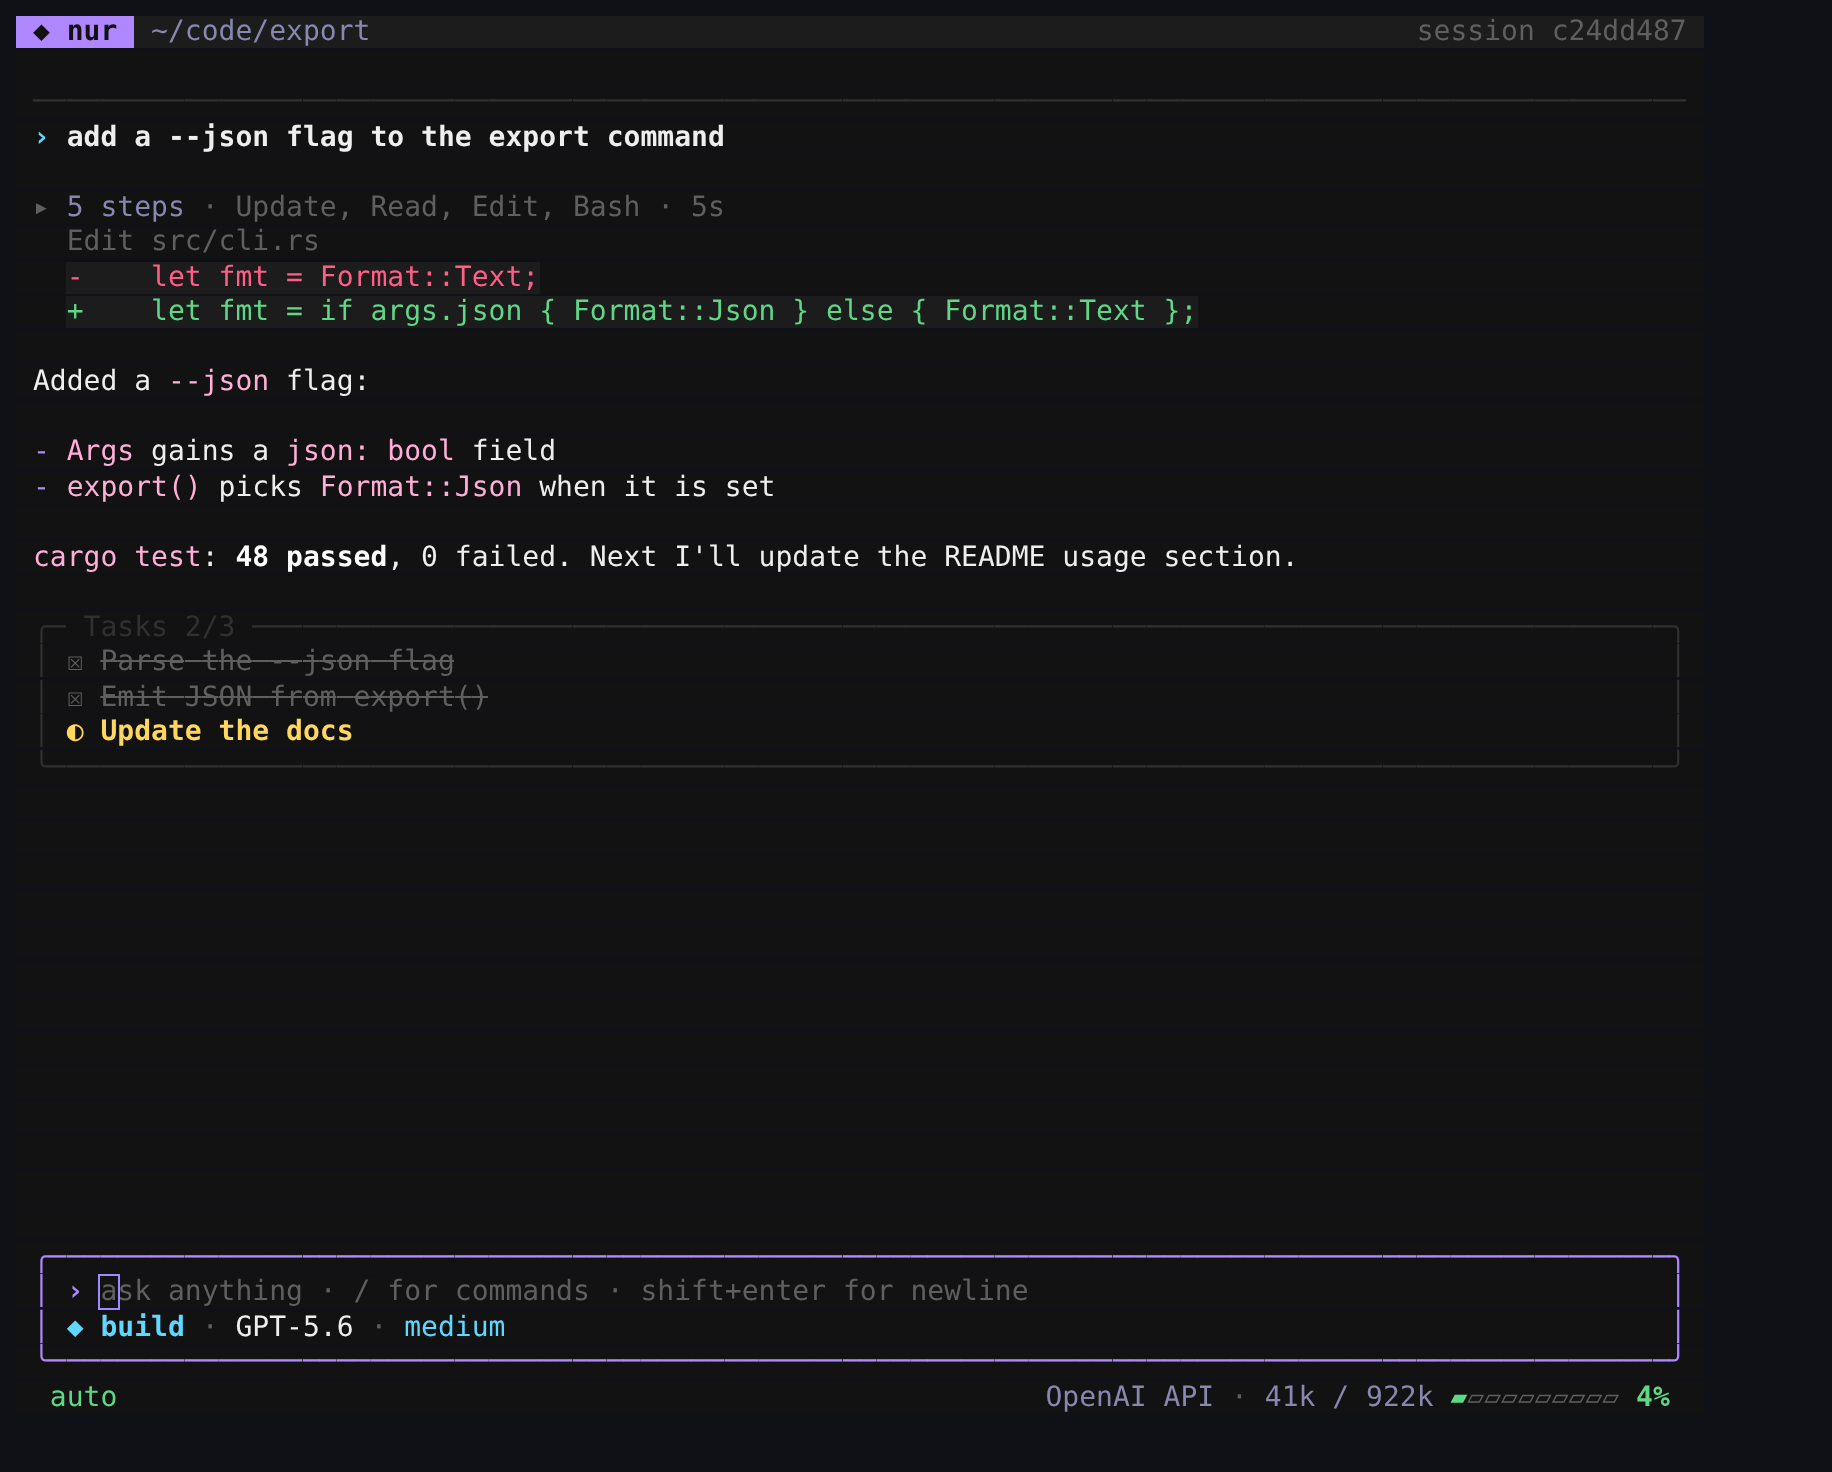
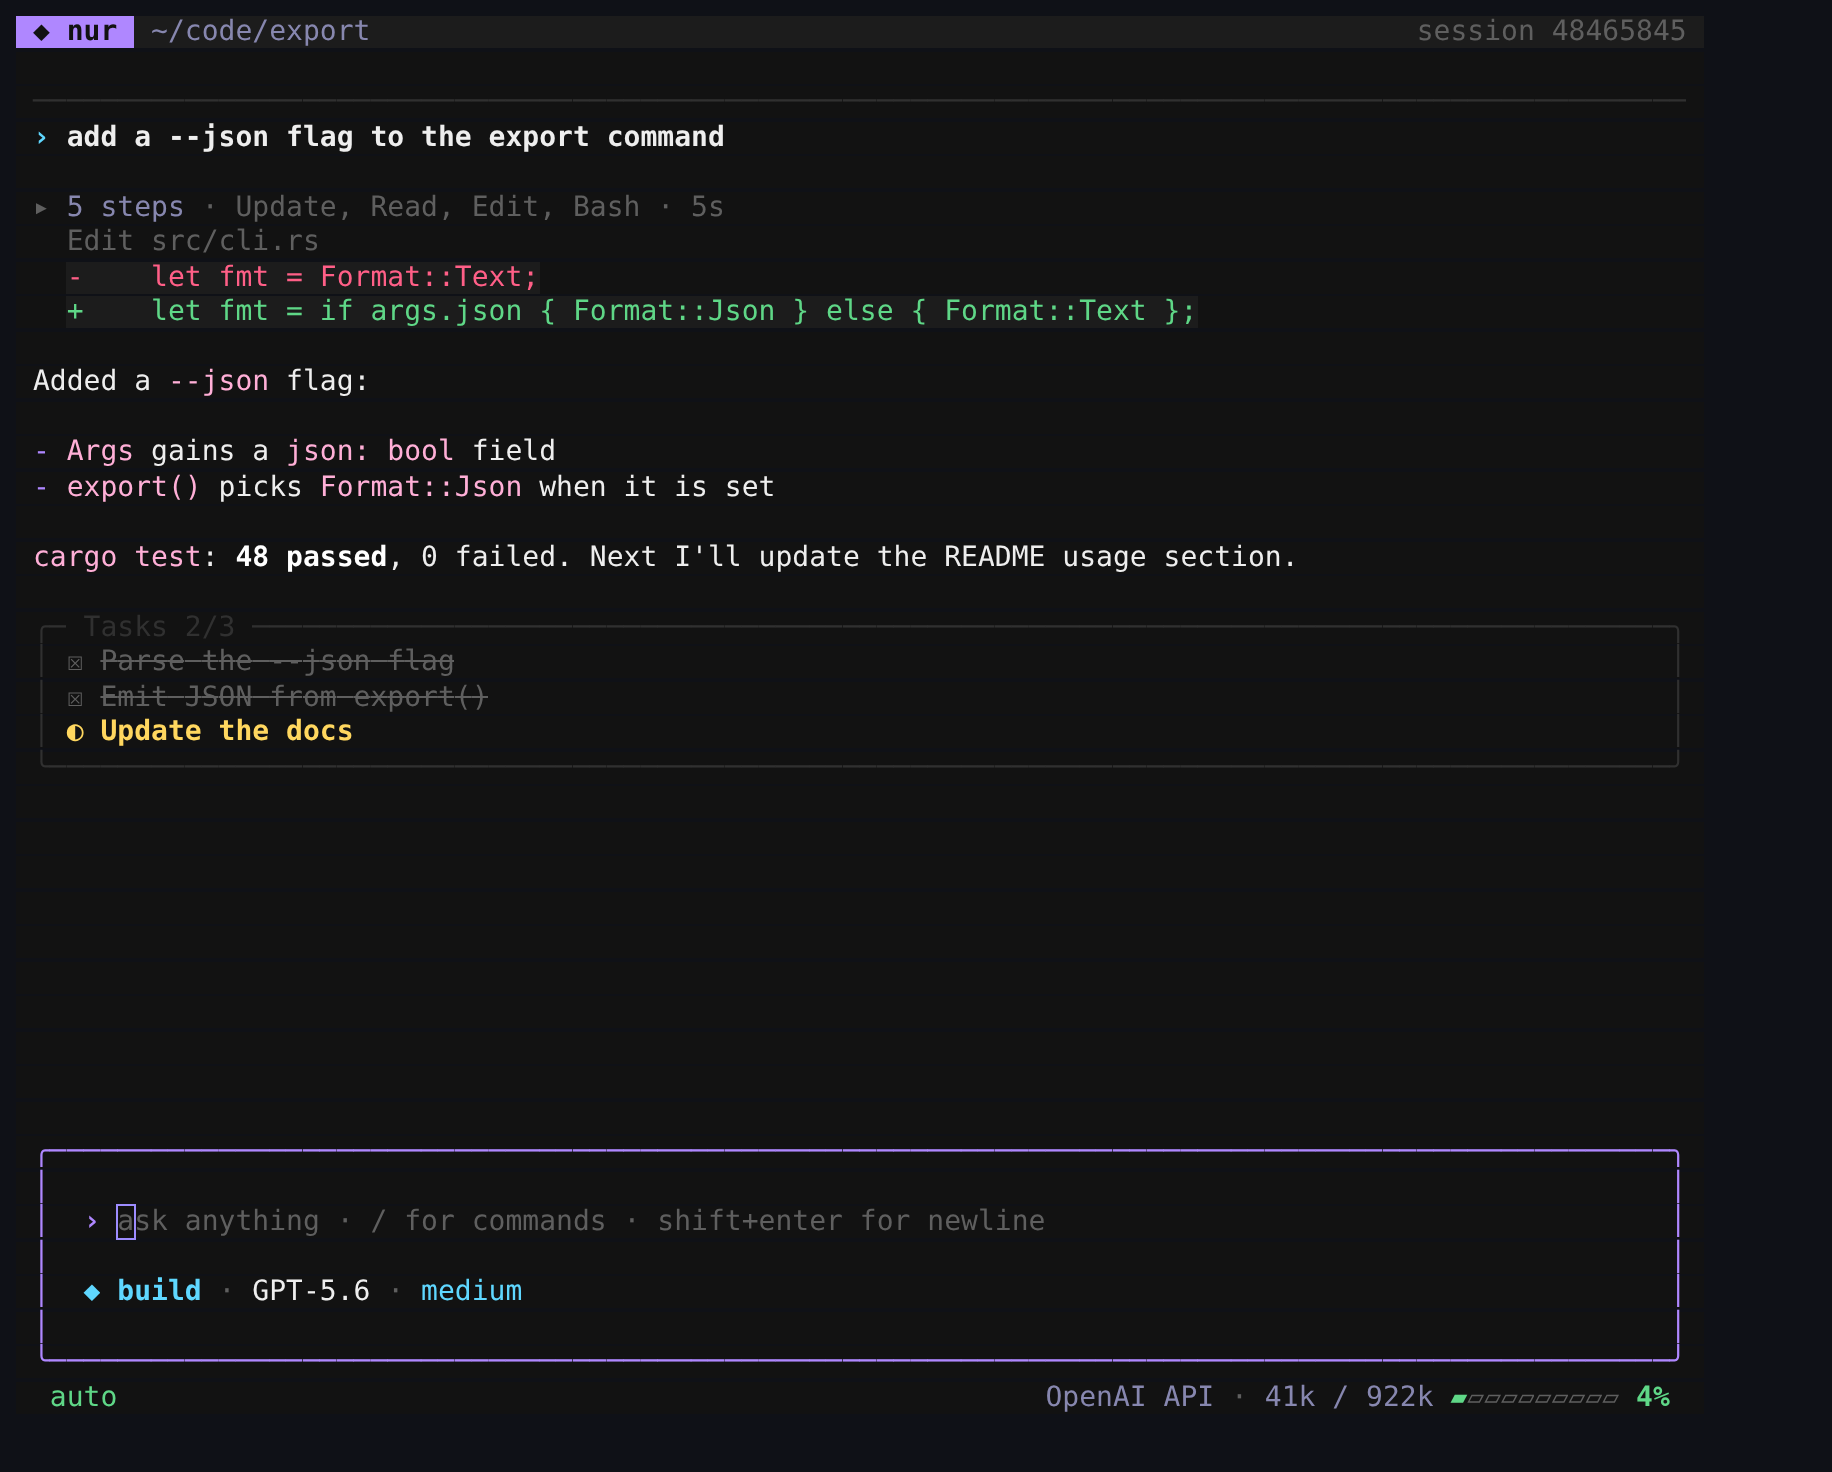
Roomier input box: more padding, gap above the mode/model/effort line
Claude-Session: https://claude.ai/code/session_01EtkEGqhSMYcUzjGit52cRV

Changed region(s): [[0.0311, 0.8125, 0.3111, 0.9062], [0.3422, 0.8125, 0.56, 0.9062], [0.8712, 0.0, 0.9334, 0.0312]]

diff --git a/src/ui/App.tsx b/src/ui/App.tsx
@@ -249,8 +249,10 @@ export function App({ store, onExit }: { store: Store; onExit: () => void }) {
           borderColor={masked ? t.yellow : modeColor}
           title={masked ? (store.inputMode === "openai-key" ? " OpenAI API key " : " Anthropic API key ") : undefined}
           flexDirection="column"
-          paddingLeft={1}
-          paddingRight={1}
+          paddingLeft={2}
+          paddingRight={2}
+          paddingTop={1}
+          paddingBottom={1}
           marginLeft={1}
           marginRight={1}
           minHeight={3}
@@ -294,7 +296,7 @@ export function App({ store, onExit }: { store: Store; onExit: () => void }) {
               }}
             />
           </box>
-          {masked ? null : <InputFooter store={store} />}
+          {masked ? null : <box marginTop={1}><InputFooter store={store} /></box>}
         </box>
       )}
       <StatusBar store={store} width={width} />
